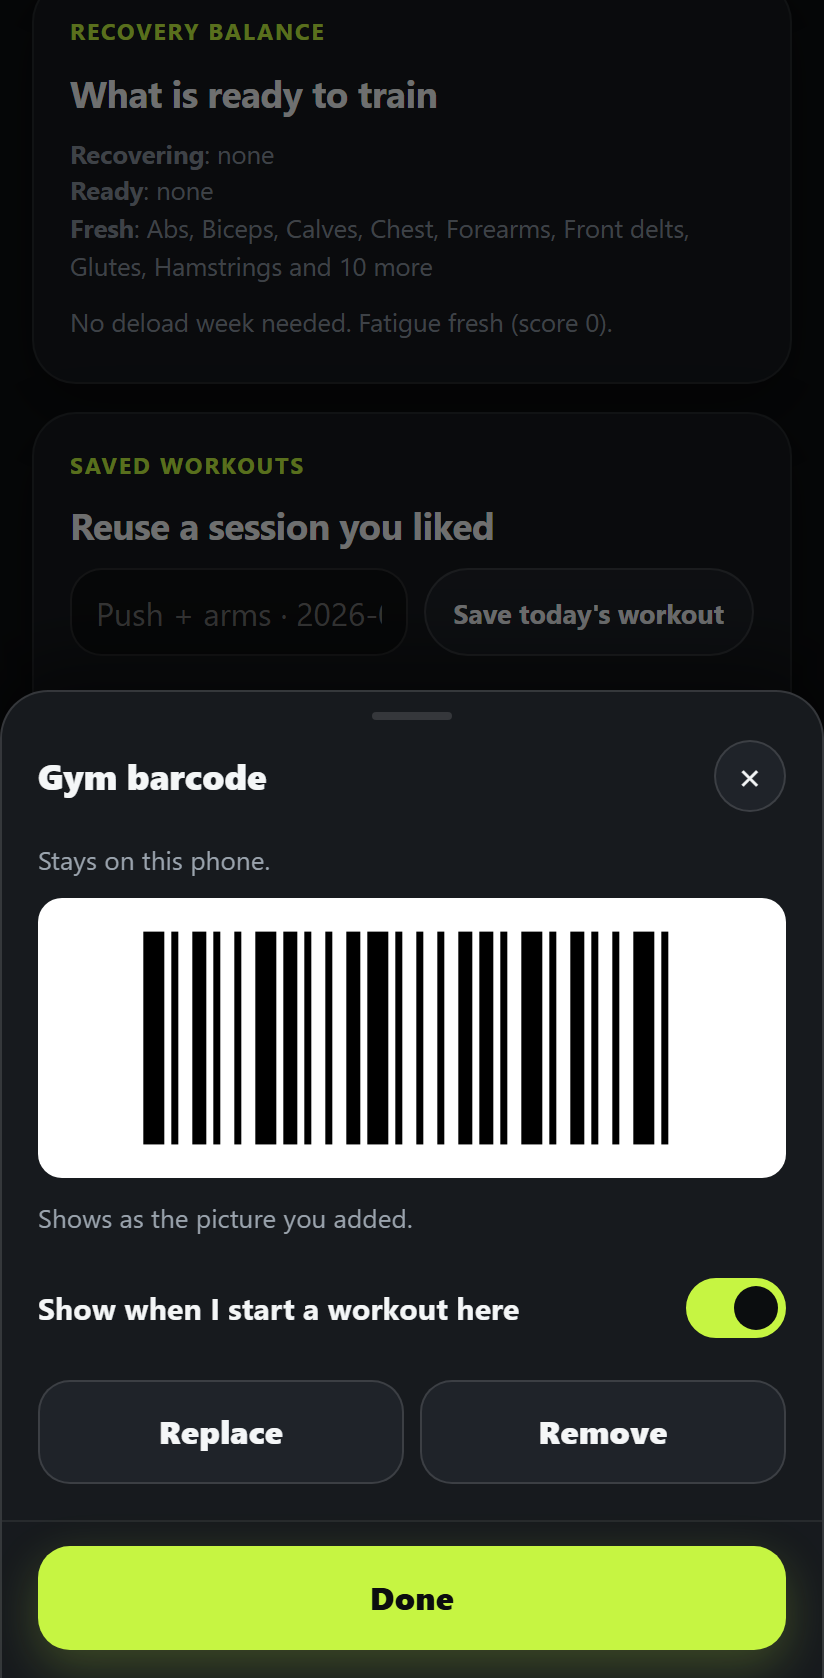
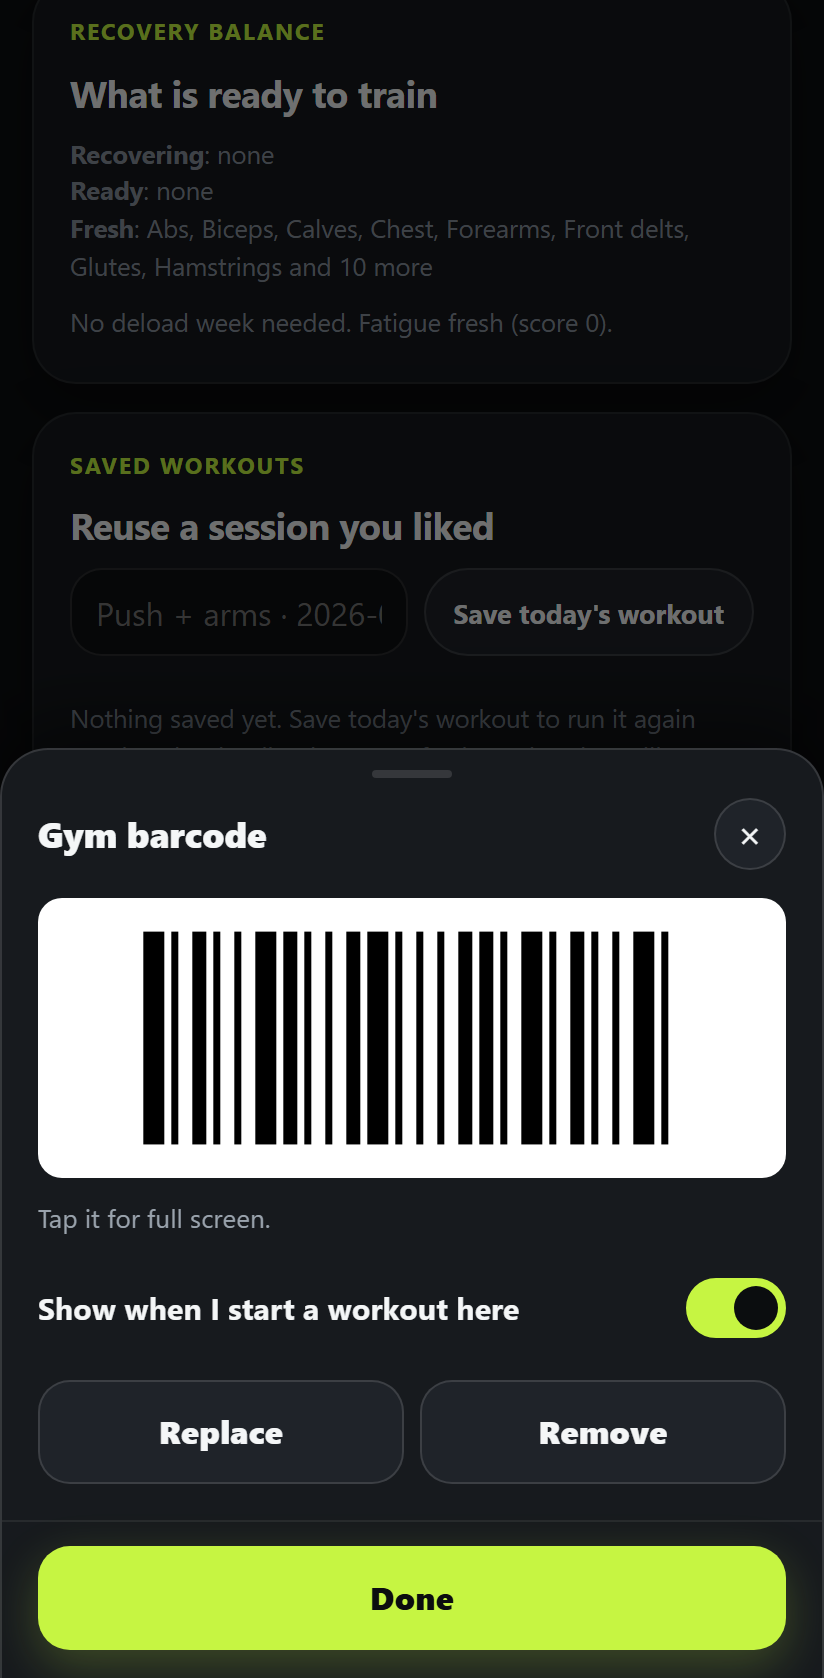
Status and live screenshots for build c4966f5
Maintenance 18's second build (the barcode popup comes first) at its
review gate, issue #19: deployed by Deploy Pages run 35788269005; the
browser suite against the live URL passed 237 with 14 skipped by design
and none failed. Six captures from the live build, the popup at Start and
full screen among them.

diff --git a/PROJECT_STATUS.md b/PROJECT_STATUS.md
@@ -2,22 +2,22 @@
 
 _Last updated: 2026-09-22_
 
-| Item                   | Value                                                                                                                                                                                                           |
-| ---------------------- | --------------------------------------------------------------------------------------------------------------------------------------------------------------------------------------------------------------- |
-| Repository             | https://github.com/Bill6006/Workout-Conductor-Rebuild-v4                                                                                                                                                        |
-| Live app (permanent)   | https://bill6006.github.io/Workout-Conductor-Rebuild-v4/                                                                                                                                                        |
-| Actions                | https://github.com/Bill6006/Workout-Conductor-Rebuild-v4/actions                                                                                                                                                |
-| Commits                | https://github.com/Bill6006/Workout-Conductor-Rebuild-v4/commits/main                                                                                                                                           |
-| Master issue           | https://github.com/Bill6006/Workout-Conductor-Rebuild-v4/issues/1                                                                                                                                               |
-| Current phase          | Plan complete (Phases 0 to 8 GREEN); Maintenance 1 to 3, 6, 7, 12, and 13 GREEN; 4, 5, 8, 9, 10, 11, 14, 15, 16, and 17 at their review gates. Maintenance 18, the gym barcode, at its review gate              |
-| Phase gate             | Maintenance 18 **YELLOW** - built, deployed, and verified against the live URL; awaiting the owner's Android review (issue #19). Maintenance 4, 5, 8, 9, 10, 11, 14, 15, 16, and 17 YELLOW (reviews still open) |
-| Current branch         | `main`                                                                                                                                                                                                          |
-| Latest completed phase | Phase 6 (GREEN from the owner on 2026-09-03)                                                                                                                                                                    |
-| Work in progress       | None. Maintenance 18 is at its review gate (`docs/reports/maintenance-18.md`). Agreed and not started: items 1, 3, 4, 5, and 6 of the owner's list; Round A (6, 5, 4, and Proposed 13) is next on his go        |
-| Latest commit          | Wording in the Maintenance 18 report and status (this commit), after the status and live screenshots for build `c5e1db4`; app build under review is `c5e1db4`                                                   |
-| Latest deployment      | `c5e1db4` deployed by Deploy Pages run 35782236319 (success); browser suite against the live URL: 237 passed + 14 skipped by design, none failed                                                                |
-| Test totals            | Unit: 621 passed (128 files). Browser/mobile: 237 passed + 14 skipped by design locally and 237 passed + 14 skipped by design, none failed against the live URL                                                 |
-| Build marker           | Shown under the header on every screen: `Build <sha> · <UTC time> · Phase 7`                                                                                                                                    |
+| Item                   | Value                                                                                                                                                                                                                                                                                |
+| ---------------------- | ------------------------------------------------------------------------------------------------------------------------------------------------------------------------------------------------------------------------------------------------------------------------------------ |
+| Repository             | https://github.com/Bill6006/Workout-Conductor-Rebuild-v4                                                                                                                                                                                                                             |
+| Live app (permanent)   | https://bill6006.github.io/Workout-Conductor-Rebuild-v4/                                                                                                                                                                                                                             |
+| Actions                | https://github.com/Bill6006/Workout-Conductor-Rebuild-v4/actions                                                                                                                                                                                                                     |
+| Commits                | https://github.com/Bill6006/Workout-Conductor-Rebuild-v4/commits/main                                                                                                                                                                                                                |
+| Master issue           | https://github.com/Bill6006/Workout-Conductor-Rebuild-v4/issues/1                                                                                                                                                                                                                    |
+| Current phase          | Plan complete (Phases 0 to 8 GREEN); Maintenance 1 to 3, 6, 7, 12, and 13 GREEN; 4, 5, 8, 9, 10, 11, 14, 15, 16, and 17 at their review gates. Maintenance 18, the gym barcode, at its review gate                                                                                   |
+| Phase gate             | Maintenance 18 **YELLOW** - second build (the popup first, from the owner's review of the first) built, deployed, and verified against the live URL; awaiting the owner's Android review (issue #19). Maintenance 4, 5, 8, 9, 10, 11, 14, 15, 16, and 17 YELLOW (reviews still open) |
+| Current branch         | `main`                                                                                                                                                                                                                                                                               |
+| Latest completed phase | Phase 6 (GREEN from the owner on 2026-09-03)                                                                                                                                                                                                                                         |
+| Work in progress       | None. Maintenance 18 is at its review gate (`docs/reports/maintenance-18.md`). Agreed and not started: items 1, 3, 4, 5, and 6 of the owner's list; Round A (6, 5, 4, and Proposed 13) is next on his go                                                                             |
+| Latest commit          | Status and live screenshots for build `c4966f5` (this commit); app build under review is `c4966f5`                                                                                                                                                                                   |
+| Latest deployment      | `c4966f5` deployed by Deploy Pages run 35788269005 (success); browser suite against the live URL: 237 passed + 14 skipped by design, none failed                                                                                                                                     |
+| Test totals            | Unit: 621 passed (128 files). Browser/mobile: 237 passed + 14 skipped by design locally and 237 passed + 14 skipped by design, none failed against the live URL                                                                                                                      |
+| Build marker           | Shown under the header on every screen: `Build <sha> · <UTC time> · Phase 7`                                                                                                                                                                                                         |
 
 ## Phase checklist
 
@@ -141,10 +141,10 @@ _Last updated: 2026-09-22_
 ## Maintenance 18: the gym barcode (YELLOW - awaiting review)
 
 - From the owner: starting a workout at the gym brings up the membership barcode so it can be scanned, with an X in case it was already scanned, and a setting to stop it popping up.
-- Added once, on a sheet of its own: Plan, Where you train, Barcode on a place's row (every place but Home). A screenshot from the gym's app or a photo of the card; it saves on the pick. A first version sat at the bottom of Edit Gym under the equipment; on the owner's word mid-build it moved to its own sheet, and its Show button went (the picture itself opens it full screen).
-- Where the phone can read the code (Chrome on Android), the app keeps it and redraws it: black on white, full width, the number under it. Code 128, Code 39, Code 93, Codabar, ITF, EAN-13, EAN-8, UPC-A, UPC-E and QR; anything else shows as the picture.
-- Start Workout at that place brings it up full screen on white with a large X, the screen kept awake; the phone's Back closes it too. The switch "Show when I start a workout here" turns the pop-up off. Today's card has Show barcode before and during the workout.
-- Device only: the `device` store (database version 6) is never synced, never in a backup, a snapshot, or an export, and a restore leaves it alone. Reading gives up after six seconds and keeps the picture; the overlay falls back to the picture if the drawing is slow.
+- One popup for the barcode: Plan, Where you train, Barcode on a place's row (every place but Home) opens it to add a screenshot from the gym's app or a photo of the card; it saves on the pick. The same popup comes up as a workout starts there and from Today's Show barcode, before and during the workout. A tap on the barcode puts it full screen on white with a large X, the screen kept awake; the X goes back to the popup, Done closes it, and the phone's Back steps back one view at a time. The switch "Show when I start a workout here" turns the popup at Start off.
+- Where the phone can read the code (Chrome on Android), the app keeps it and redraws it for full screen: black on white, full width, the number under it. Code 128, Code 39, Code 93, Codabar, ITF, EAN-13, EAN-8, UPC-A, UPC-E and QR; anything else shows as the picture.
+- Changed after review: it first sat under the equipment in Edit Gym (moved to its own popup), its Show button went (the barcode itself opens full screen), and on the first build's review Start and Show barcode now open the popup first instead of full screen, with "Stays on this phone" gone.
+- Device only: the `device` store (database version 6) is never synced, never in a backup, a snapshot, or an export, and a restore leaves it alone. Reading gives up after six seconds and keeps the picture; full screen falls back to the picture if the drawing is slow.
 - Cannot: pop up on arrival (no background location for a web app) or raise the brightness. The camera-to-drawn-code path ran with a stand-in reader here; it needs one try on the phone.
 - Report: `docs/reports/maintenance-18.md`.
 
@@ -289,11 +289,11 @@ _Last updated: 2026-09-22_
 - Vibration on rest completion depends on the phone allowing it; there is never a sound.
 - Demonstrations are original placeholder diagrams (one animated loop per movement pattern); your own GIF, photo, or video replaces them per exercise.
 - Automatic backups include your demonstrations inline, so three of them cost about three times the size of your media.
-- The gym barcode comes up at Start Workout, not on arrival, and cannot raise the brightness; it is read and redrawn only where the browser can read barcodes (Chrome on Android), and shows as the picture elsewhere.
+- The gym barcode's popup comes up at Start Workout, not on arrival, and cannot raise the brightness; it is read and redrawn only where the browser can read barcodes (Chrome on Android), and shows as the picture elsewhere.
 
 ## Mobile screenshots
 
-Maintenance 18, captured by Playwright from the deployed build `c5e1db4` at https://bill6006.github.io/Workout-Conductor-Rebuild-v4/ (see [docs/screenshots/maintenance-18](docs/screenshots/maintenance-18)): [Where you train: Barcode beside Use and Edit](docs/screenshots/maintenance-18/android-412-plan-places.png) · [The Gym's barcode sheet](docs/screenshots/maintenance-18/android-412-gym-barcode-sheet.png) · [Show barcode on Today's card](docs/screenshots/maintenance-18/android-412-today-show-barcode.png) · [Full screen on white as the workout starts](docs/screenshots/maintenance-18/android-412-barcode-at-start.png) · [A code read from the picture, redrawn full width](docs/screenshots/maintenance-18/android-412-barcode-redrawn.png).
+Maintenance 18, captured by Playwright from the deployed build `c4966f5` at https://bill6006.github.io/Workout-Conductor-Rebuild-v4/ (see [docs/screenshots/maintenance-18](docs/screenshots/maintenance-18)): [Where you train: Barcode beside Use and Edit](docs/screenshots/maintenance-18/android-412-plan-places.png) · [The Gym's barcode popup](docs/screenshots/maintenance-18/android-412-gym-barcode-sheet.png) · [Show barcode on Today's card](docs/screenshots/maintenance-18/android-412-today-show-barcode.png) · [The popup as the workout starts](docs/screenshots/maintenance-18/android-412-barcode-at-start.png) · [Full screen on white, a tap on the barcode](docs/screenshots/maintenance-18/android-412-barcode-full-screen.png) · [A code read from the picture, redrawn full width](docs/screenshots/maintenance-18/android-412-barcode-redrawn.png).
 
 Maintenance 17, captured by Playwright from the deployed build `1ccd356` at https://bill6006.github.io/Workout-Conductor-Rebuild-v4/ (see [docs/screenshots/maintenance-17](docs/screenshots/maintenance-17)): [A workout back after the app reopened, its logged set intact](docs/screenshots/maintenance-17/android-412-workout-after-reopening.png) · [The notice for a stored workout that could not be read back](docs/screenshots/maintenance-17/android-412-workout-kept-for-recovery.png).
 
